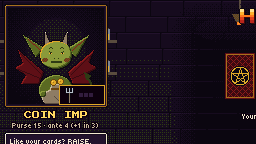
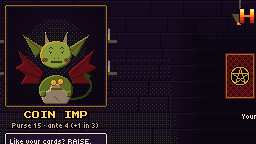
phase 3 build v2
phase 3

Changed region(s): [[0.2188, 0.5833, 0.4062, 0.75], [0.4062, 0.6111, 0.4375, 0.7222]]

diff --git a/CHANGELOG.md b/CHANGELOG.md
@@ -1,5 +1,26 @@
 # Hell Poker — değişiklikler
 
+## Demo 3.1 (3.1.0-demo) — 2026-10-19 — Oyuncu paneli ve el animasyonları
+
+### Yeni
+- **Oyuncu paneli:** bölüm masalarında sağda, sayacın altında: sınıfının hareketli portresi (nefes alır, göz kırpar, sınıfına özgü küçük
+  bir hareket yapar: Köylü heybesini yoklar, Kâhin'in üçüncü gözü parlar, Kral tacını düzeltir, Soytarı'nın çanları sallanır, Çağırıcı'nın
+  iblisi omzunda kıpırdar, Hırsız gözlerini kaçırır), seviyesi, pasif gücünün adı (çalışınca parlar) ve takılı emanetlerin. Portreye ya da
+  pasif satırına tıklamak K ile aynı. Şeytanın portresinin üstündeki rozet ve emanetler kalktı: portre temiz.
+- **Portre elin gidişini yaşar:** kazanınca gülümser, güçlü elde sevinçle zıplar, kaybedince yüzünü buruşturur, mühürlü elde ve ruh
+  çizgisine yaklaşınca gerilir.
+- **El gücüne göre animasyon:** yüksek kart / çiftte coin'ler uçar; iki çift / üçlüde kazanan kartlar vurur ve elin adı yazılır; kent /
+  renkte kartlar tek tek yanar; Full'de üçlü ve çift ayrı vurur, ekran sarsılır; Karede beyaz flaş ve coin yağmuru; Floş / Floş Royal'de
+  ekran kararır, kenarlar yanar, kartlar tek tek tutuşur. Kasanın üçlü ve üstüyle kaybedince kasanın kartları vurur. Her kademenin kendi
+  sesi var. Şeytan masasında barın vuruşu animasyondan sonra gelir. Herhangi bir tuş animasyonu bitirir.
+- **EKRAN SARSINTISI** ayarı (Ayarlar ▸ GÖRÜNTÜ): kapalıyken sarsıntı ve flaş olmaz.
+
+### Düzeltilen
+- Şeytanın barından yükselen yüzde artık adının ve kötülük göstergesinin üstüne binmiyor.
+
+### Denge
+- Değişiklik yok.
+
 ## Demo 3.0.2 (3.0.2-demo) — 2026-10-19 — Siyah kutu düzeltmesi
 
 ### Düzeltilen
